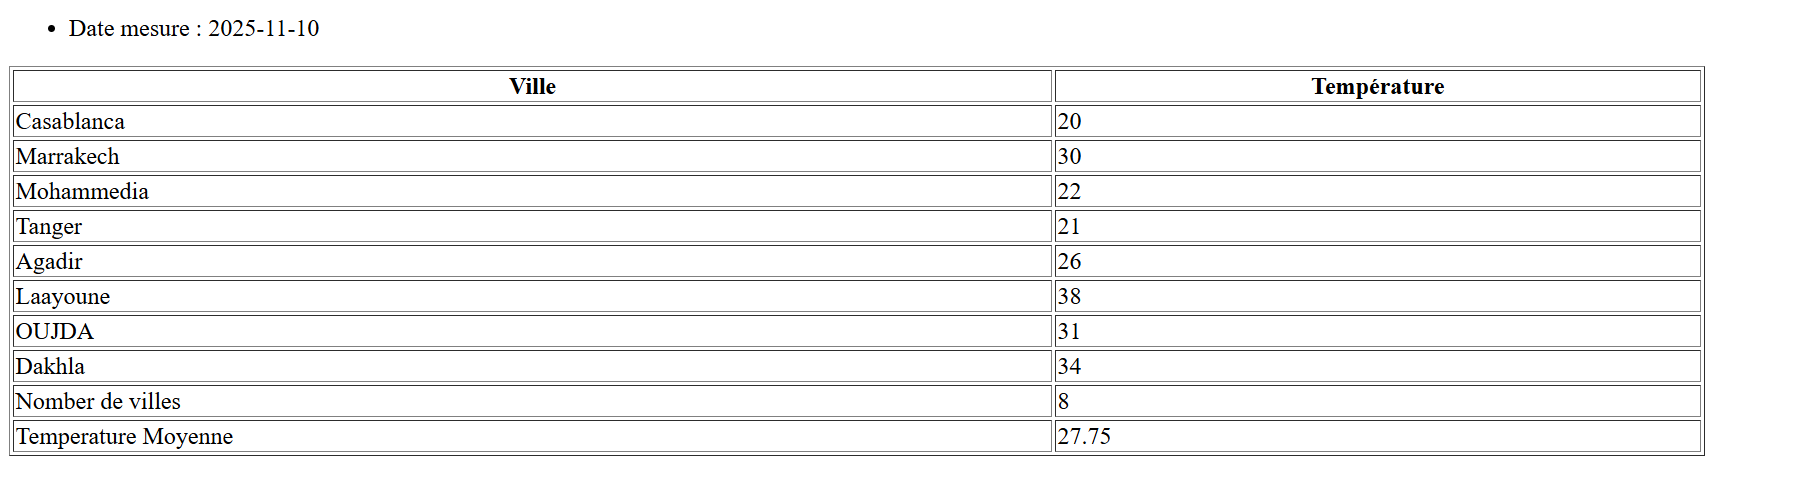
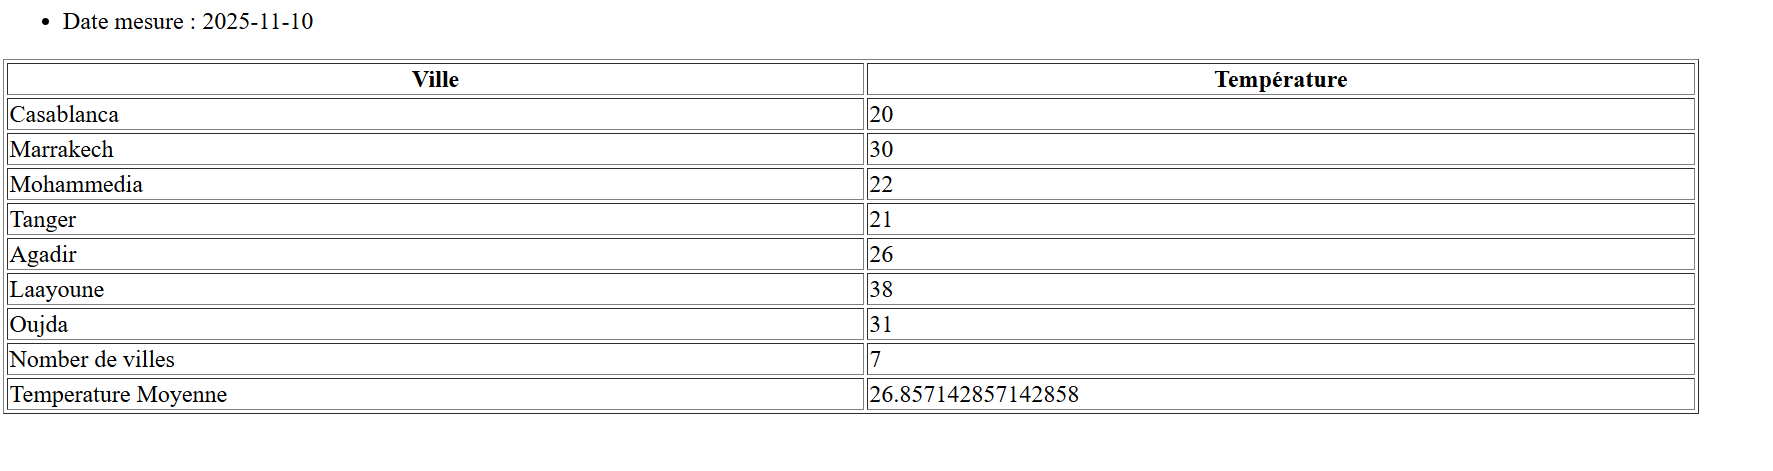
TC

Changed region(s): [[0.0, 0.1189, 0.9616, 0.9214], [0.031, 0.0297, 0.1861, 0.0892], [0.9306, 0.2675, 0.9616, 0.2972]]

diff --git a/m1.html b/m1.html
@@ -38,20 +38,16 @@
             <td>38</td>
          </tr>
          <tr>
-            <td>OUJDA</td>
+            <td>Oujda</td>
             <td>31</td>
          </tr>
          <tr>
-            <td>Dakhla</td>
-            <td>34</td>
-         </tr>
-         <tr>
             <td>Nomber de villes</td>
-            <td>8</td>
+            <td>7</td>
          </tr>
          <tr>
             <td>Temperature Moyenne</td>
-            <td>27.75</td>
+            <td>26.857142857142858</td>
          </tr>
       </table>
    </body>
